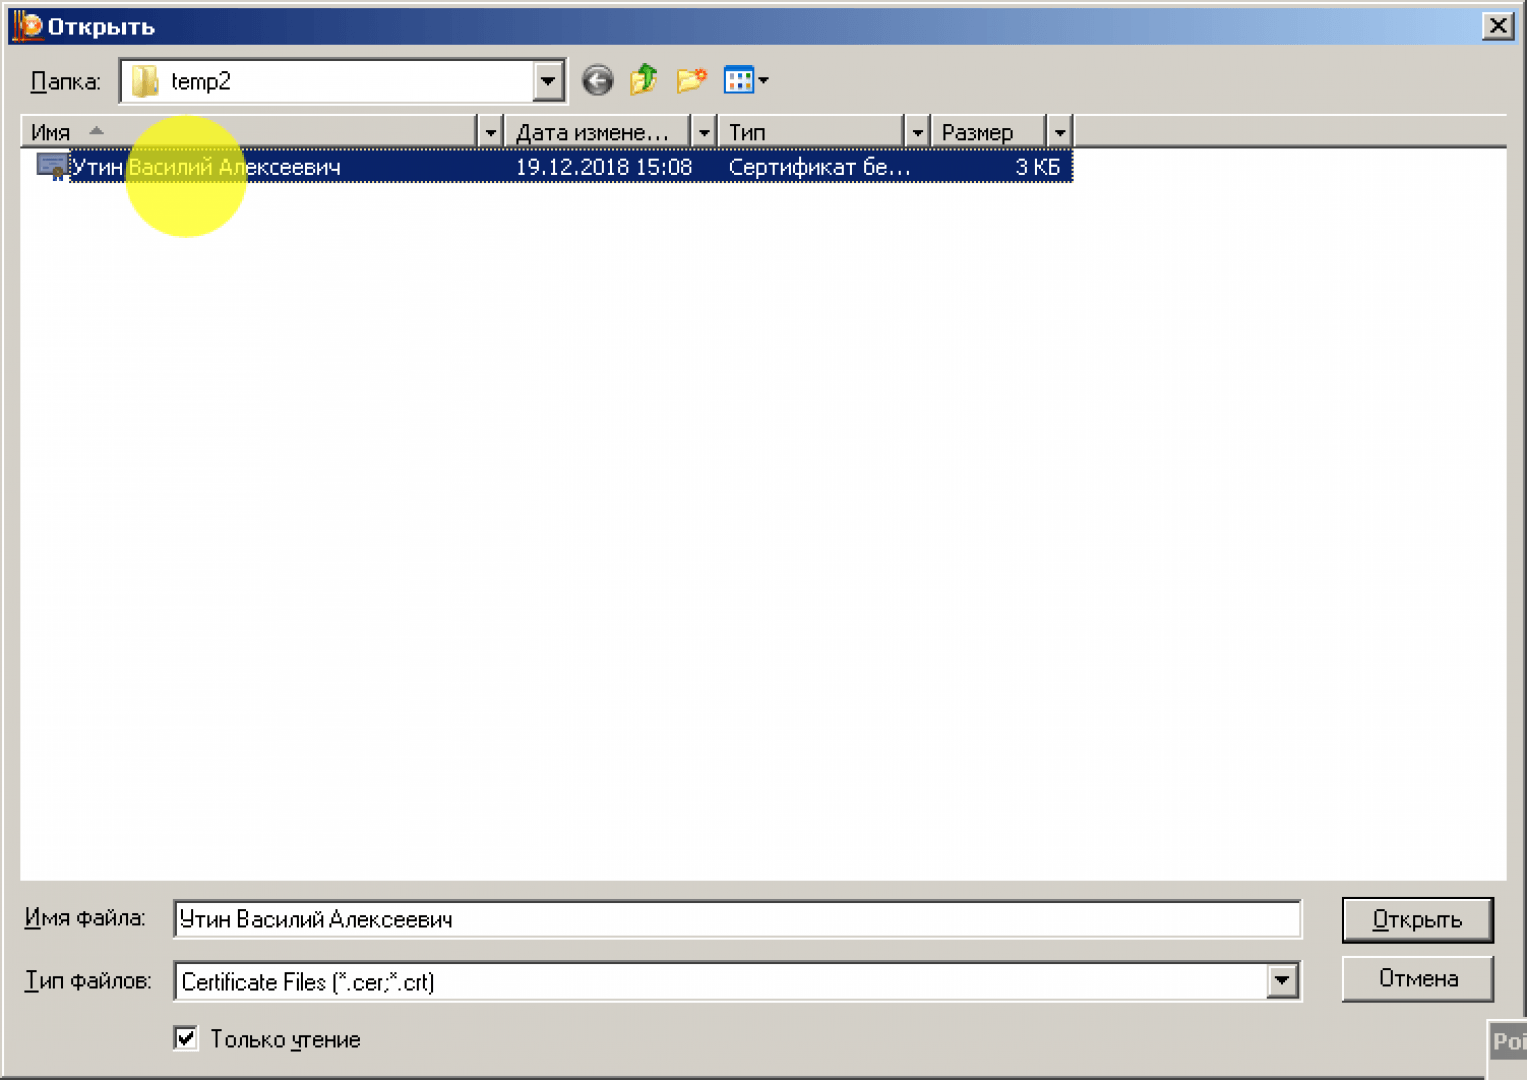
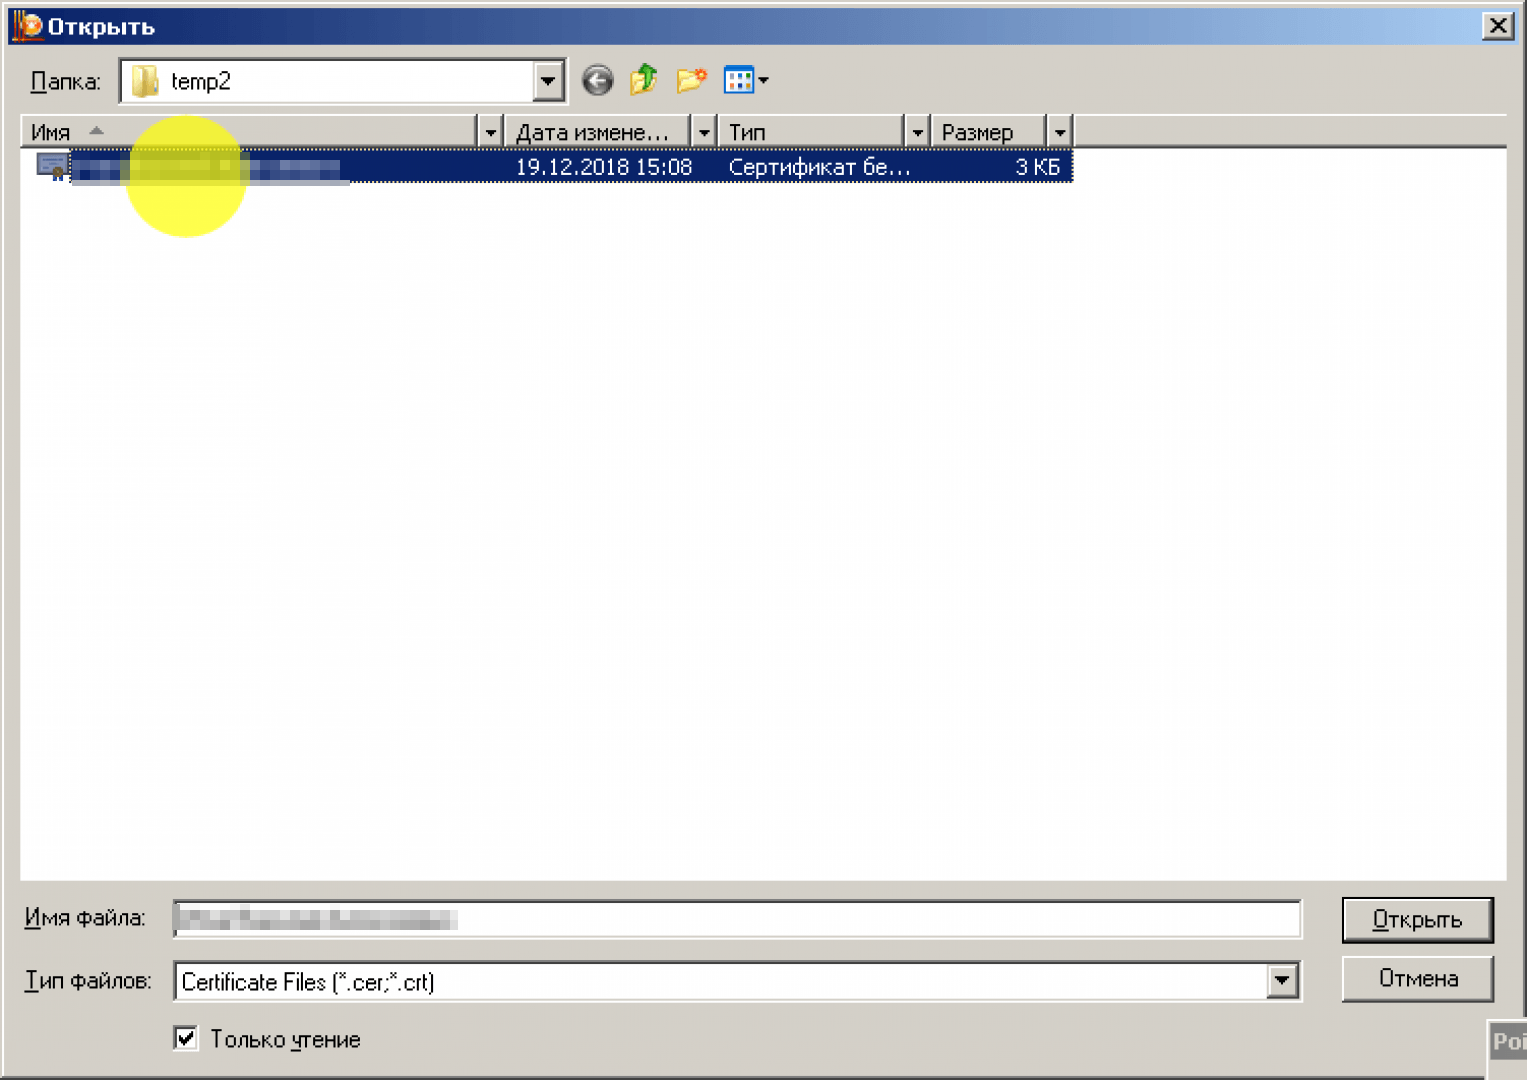
pixelize private data

Changed region(s): [[0.0923, 0.825, 0.3078, 0.8861], [0.0308, 0.1222, 0.2462, 0.1833]]

diff --git a/index.html b/index.html
@@ -135,5 +135,5 @@ if (is_top_frame) { $('body').addClass('wm-top-page'); }
 </html>
 <!--
 MkDocs version : 1.1
-Build Date UTC : 2020-04-25 20:53:33
+Build Date UTC : 2020-04-25 21:15:57
 -->
